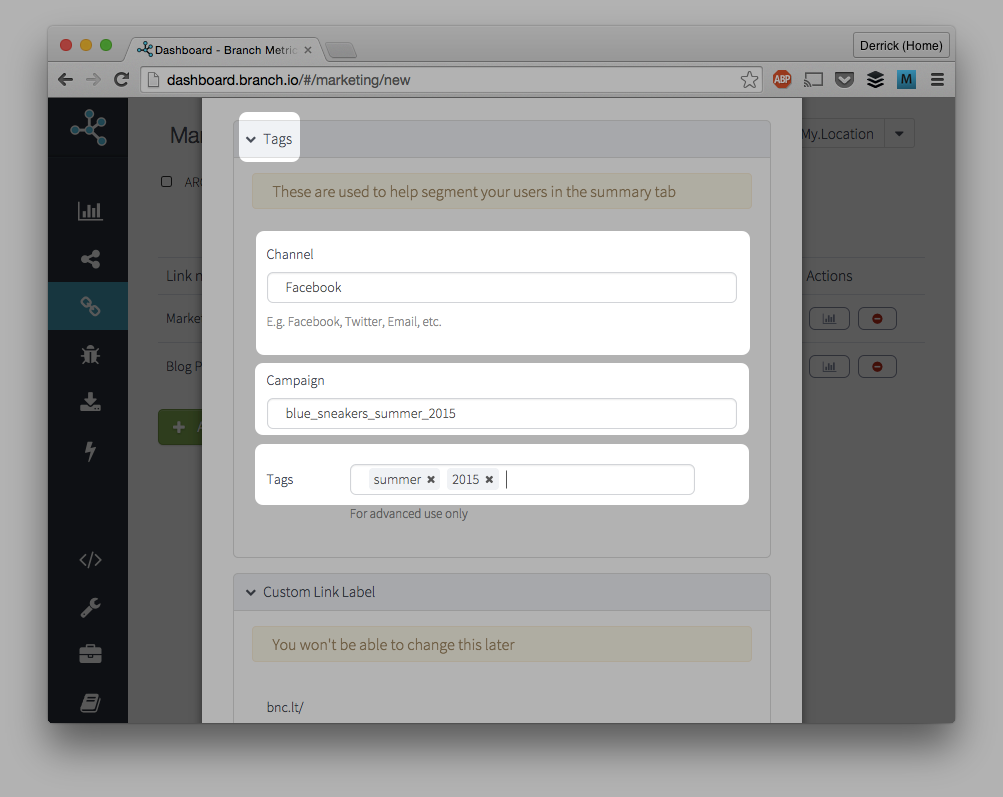
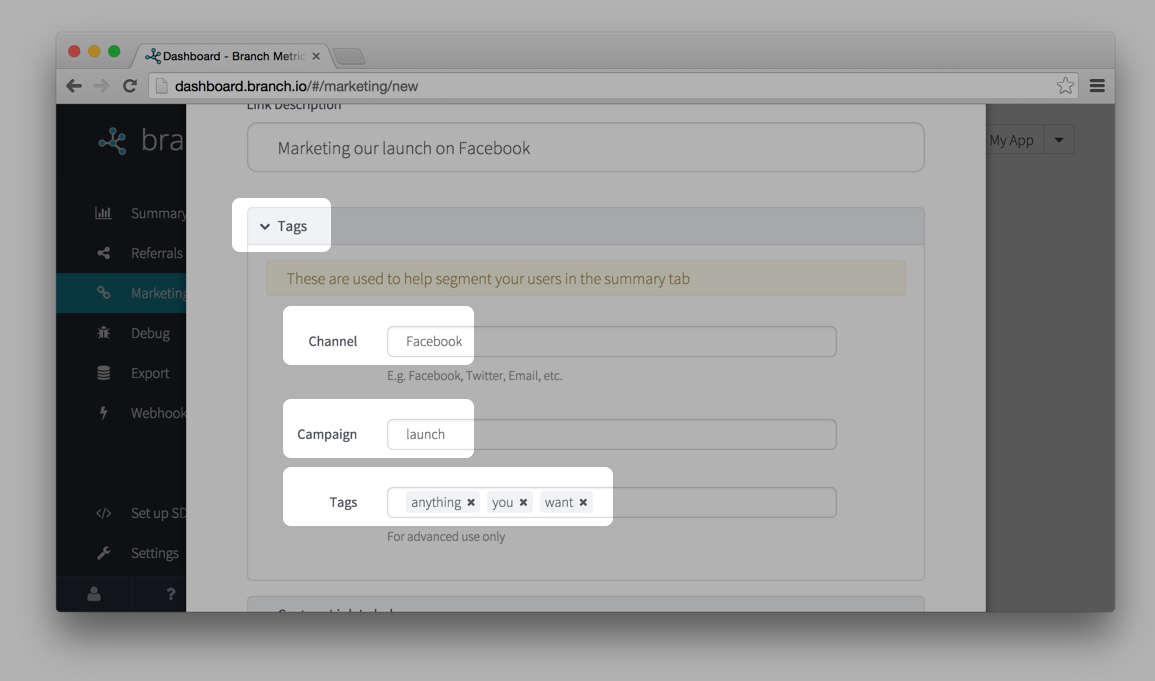
deep linked ads and marketer-oriented guide

diff --git a/recipes/deeplinked_ads.md b/recipes/deeplinked_ads.md
@@ -6,7 +6,7 @@ platforms:
 - android
 ---
 
-# Deeplink Ads
+# Deeplinked Ads
 
 ------
 
@@ -17,15 +17,32 @@ platforms:
 That's the end of the required setup for the Dashboard! The dashboard is incredibly powerful, so if you want to dive in deeper, definitely check out [TODO] [Configuring the Dashboard](/ingredients/configuring_the_dashboard/{{ page.platform }}/index.html#advanced)'s advanced configurations.
 <!--- /Basic Setup -->
 
+
 ## Creating your Link
 
-{% ingredient dashboard_links/creating_links %}{% endingredient %}
-{% ingredient dashboard_links/tags %}{% endingredient %}
-{% ingredient dashboard_links/alias %}{% endingredient %}
+{% ingredient dashboard_links/creating_links %}
+	{%override screenshot_description%}One example description if you want to treat this guide is: "Facebook ad for blue sneakers - summer 2015."{%endoverride%}
+	{%override screenshot%}![Description](/img/ingredients/dashboard_links/fb_example_create.png){%endoverride%}
+{% endingredient %}
+
+{% ingredient dashboard_links/tags %}
+	{%override screenshot%}![Description](/img/ingredients/dashboard_links/fb_example_tags.png){%endoverride%}
+{% endingredient %}
+
+{% ingredient dashboard_links/alias %}
+	{%override explanation%}This is more important for links that will be visible. For ads, this URL will be buried in the add and most users won't see it. However, you still have the option to customize it.{%endoverride%}
+	{%override screenshot%}{%endoverride%}
+{% endingredient %}
+
 {% ingredient dashboard_links/custom_redirects %}{% endingredient %}
 {% ingredient dashboard_links/og_tags %}{% endingredient %}
 {% ingredient dashboard_links/end %}{% endingredient %}
-{% ingredient dashboard_links/end %}{% endingredient %}
+
+### So Far, So Good
+{% ingredient dashboard_links/no_sdk %}
+	{%override alias%}{%endoverride%}
+	{%override more_power%}keep reading.{%endoverride%}
+{% endingredient %}
 <!--- /Creating your Link -->
 
 

diff --git a/recipes/your_first_link.md b/recipes/your_first_link.md
@@ -1,0 +1,45 @@
+---
+type: recipe
+title: Your First Link
+platforms:
+- ios
+- android
+---
+
+# Your First Link
+
+------
+
+## Getting Started
+
+Branch Links enable deep linking, install attribution, and in-depth analytics. While configuring your apps--whether Android, iOS or web--enables you to be much more powerful, basic links can be set up before writing a line of code.
+
+You can do this from the [Branch Dashboard](https://dashboard.branch.io/). We will first walk you through creating an app, then proceed to link creation.
+
+## Basic Setup
+{% ingredient dashboard_setup/app_name %}{% endingredient %}
+{% ingredient dashboard_setup/store_or_custom_url %}{% endingredient %}
+
+That's the end of the required setup for the Dashboard! The dashboard is incredibly powerful, so if you want to dive in deeper, definitely check out [TODO] [Configuring the Dashboard](/ingredients/configuring_the_dashboard/{{ page.platform }}/index.html#advanced)'s advanced configurations.
+
+
+## Creating your Link
+
+{% ingredient dashboard_links/creating_links %}
+	{%override screenshot_description%}One example description if you want to treat this guide is: "Marketing our launch on Facebook."{%endoverride%}
+{% endingredient %}
+
+{% ingredient dashboard_links/tags %}{% endingredient %}
+
+{% ingredient dashboard_links/alias %}
+	{%override optional%}(Optional -- highly recommended){%endoverride%}
+{% endingredient %}
+
+{% ingredient dashboard_links/og_tags %}{% endingredient %}
+{% ingredient dashboard_links/end %}{% endingredient %}
+<!--- /Creating your Link -->
+
+
+## Conclusion and Advanced Options
+
+{% ingredient dashboard_links/no_sdk %}{%endingredient%}

diff --git a/ingredients/dashboard_links/creating_links.md b/ingredients/dashboard_links/creating_links.md
@@ -1,13 +1,15 @@
-#### Creating a link
 
-When you create links on the dashboard, you have a subset of these overall labels available to you. Visit dashboard.branch.io and select the Marketing tab. Then click **+ Add link** to get started.
+### Creating a link
+
+When you create links on the dashboard, you have a subset of these overall labels available to you. Visit the Dashboard's [Marketing](https://dashboard.branch.io/#/marketing) page. Then click **+ Add link** to get started.
 
 The minimum required information is a Link Description. Creating links is actually this simple!
 
-![Marketing Screen](/img/ingredients/dashboard_links/marketing.png)
+![Marketing Screen](/img/ingredients/dashboard_links/add.png)
 
 The following sections will walk through various options and their implications.
 
-One example description if you want to treat this guide is: "Facebook ad for blue sneakers - summer 2015" -- type that in the box.
+{%section screenshot_description%}The first step in creating a marketing link is giving it a title.{%endsection%}
 
-![Description](/img/ingredients/dashboard_links/create.png) 
+{%section screenshot%}![Description](/img/ingredients/dashboard_links/add_2.png){%endsection%}
+

diff --git a/ingredients/dashboard_links/tags.md b/ingredients/dashboard_links/tags.md
@@ -1,7 +1,10 @@
-#### Tags: Channel, Campaign, Etc. (highly recommended)
 
-The more information you enter, the better you'll be able to segment data on the Dashboard and in exports. We recommend setting Channel and Campaign. Tags allows you to easily add tags that don't need to be categorized. For information of the form *[key]*: *[value]* such as "product": "shoes", we recommend adding them to "Deep Link Data (Advanced)", discussed below.
+### Tags: Channel, Campaign, Etc. (Optional -- highly recommended)
+
+The more information you enter, the better you'll be able to segment data on the Dashboard and in exports. We recommend setting Channel and Campaign. Tags allows you to easily add tags that don't need to be categorized. 
+
+For information of the form *[key]*: *[value]* such as "product": "shoes", we recommend adding them to "Deep Link Data (Advanced)", discussed [TODO] below.
 
 *Hint: Press the 'comma' or 'return' key after each tag.*
 
-![Description](/img/ingredients/dashboard_links/tags.png)
+{%section screenshot%}![Description](/img/ingredients/dashboard_links/tags.png){%endsection%}

diff --git a/ingredients/dashboard_links/alias.md b/ingredients/dashboard_links/alias.md
@@ -1,3 +1,8 @@
-#### Custom Link Label (optional)
 
-This is more important for links that will be visible. For ads, this URL will be buried in the add and most users won't see it. However, you still have the option to customize it.
+### Custom Link Label {%section optional%}(Optional){%endsection%}
+
+You can customize how your link will appear--for free!
+
+{%section explanation%}You should set this if users are going to see the link, whether on social media, in a text message, or in an email. It's less important if this link is going to be buried behind a button or picture on a web page. We think it's generally a good idea to set this, as users will often see your links.{%endsection%}
+
+{%section screenshot%}![Description](/img/ingredients/dashboard_links/alias.png){%endsection%}

diff --git a/ingredients/dashboard_links/no_sdk.md b/ingredients/dashboard_links/no_sdk.md
@@ -1,0 +1,8 @@
+
+It's that simple! You now have a link that will track clicks based on the channel, campaign and any other tags you create. {%section alias%}It has a custom ending (as opposed to random characters).{%endsection%} It's properly formatted for social media. 
+
+The Dashboard's [Summary](https://dashboard.branch.io/#) page, specifically the "Click Flow" chart, now can show you meaningful results! Note all the filters in the screenshot below:
+
+![click flow no open/install](/img/ingredients/dashboard_links/click_flow_no_sdk.png)
+
+To start collecting statistics regarding installs, opens, referred installs -- and to add powerful, deferred deep links -- {%section more_power%}check out any of our other guides.{%endsection%}

diff --git a/ingredients/dashboard_links/custom_data.md b/ingredients/dashboard_links/custom_data.md
@@ -1,6 +1,7 @@
-#### Deep Link Data (Advanced)
+
+### Deep Link Data (Advanced)
 
 This is a great place to specify any other information that you think will be of use either in-app or in when combing through data later on. If you are treating this guide like a tutorial, go ahead and enter key "ad_id" and value "abc123".
 
-![Description](/img/ingredients/dashboard_links/custom_data.png) 
+![Description](/img/ingredients/dashboard_links/fb_example_custom_data.png) 
 

diff --git a/ingredients/dashboard_links/og_tags.md b/ingredients/dashboard_links/og_tags.md
@@ -1,4 +1,4 @@
-#### Social Media (OG) tags (optional but highly recommended)
+### Social Media (OG) tags (Optional -- highly recommended)
 
 While our [URL Creation Guide](https://github.com/BranchMetrics/Branch-Integration-Guides/blob/master/url-creation-guide.md#dashboard-customizations) details how to set the default social media tags that will be used app-wide, you can customize these on a per-link basis as well.
 

diff --git a/ingredients/dashboard_links/custom_redirects.md b/ingredients/dashboard_links/custom_redirects.md
@@ -1,4 +1,4 @@
-#### Custom Redirects (optional)
+### Custom Redirects (Optional)
 
 This allows you to direct the user to somewhere other than the App Store or Play Store if he does not have the app installed. This gives you flexibility as a marketer. You may decide for certain links that if they do not have the app, the user should be sent to www.yourwebsite.com/a_particular_campaign.
 

diff --git a/ingredients/dashboard_links/end.md b/ingredients/dashboard_links/end.md
@@ -1,3 +1,3 @@
-#### Save!
+### Save!
 
 Press the green "Save" button when you are done editing the link.
